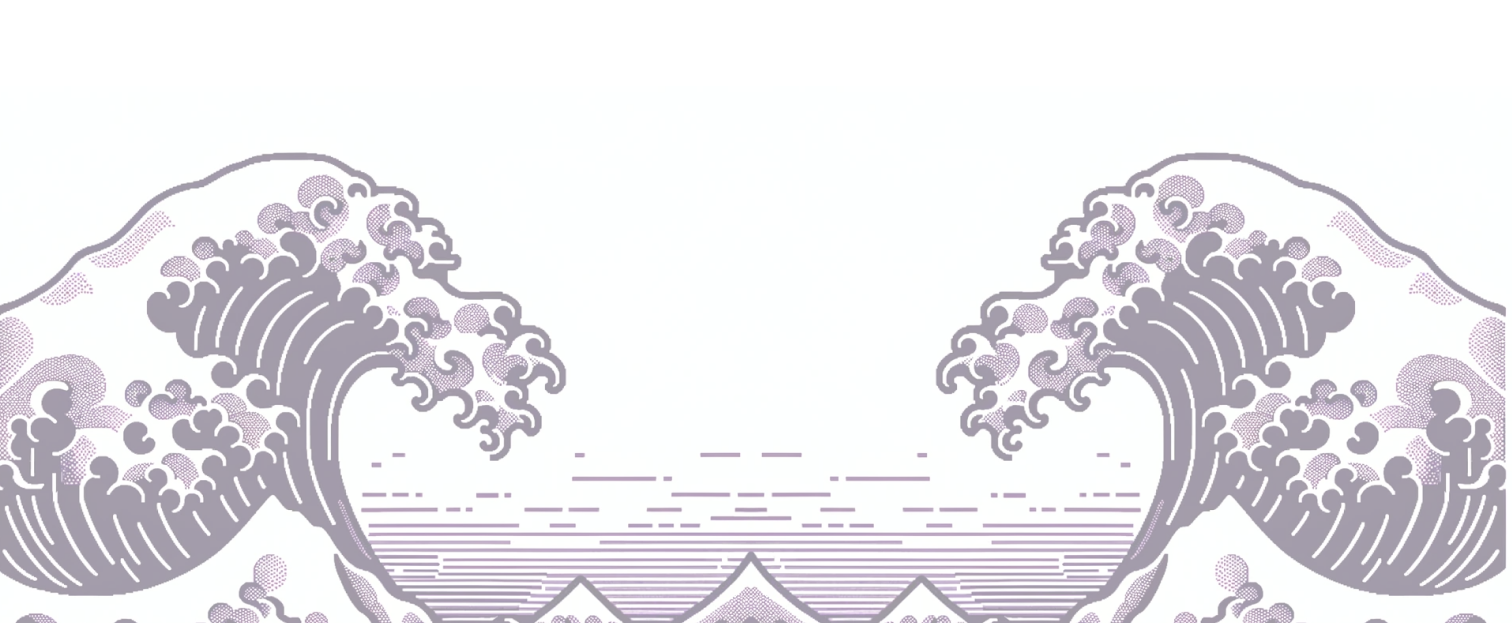
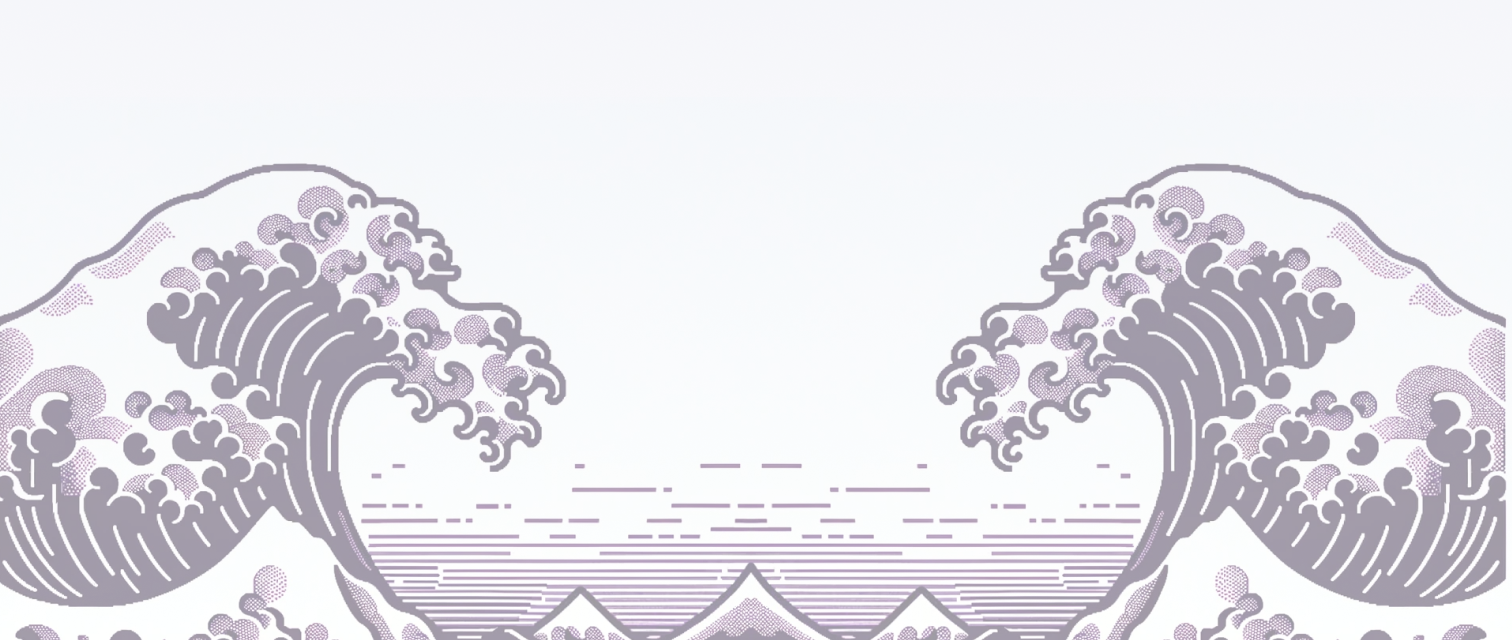
style: homepage hero bg adjustments and responsiveness

diff --git a/components/HomepageSection/Hero.jsx b/components/HomepageSection/Hero.jsx
@@ -5,9 +5,7 @@ import SectionHeading from '../SectionHeading';
 
 const Hero = () => (
   <SectionWrapper
-    customClasses="py-24 px-4 border-b min-h-[800px] flex flex-col items-center"
-    backgroundType="NONE"
-    backgroundImage="/images/homepage/hero.png"
+    customClasses="py-24 px-4 border-b min-h-[500px] h-[calc(100vh-150px)] max-h-[800px] flex flex-col bg-[url('/images/homepage/mobile-hero.png')] md:bg-[url('/images/homepage/hero.png')] bg-cover md:bg-auto xl:bg-cover bg-center"
   >
     <div className="max-w-screen-xl lg:px-12 mx-auto text-center">
       <SectionHeading
